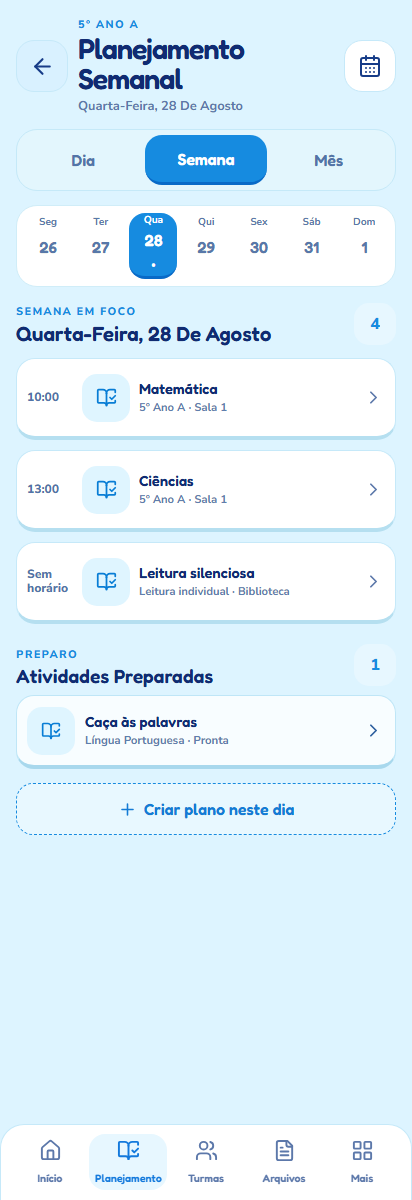
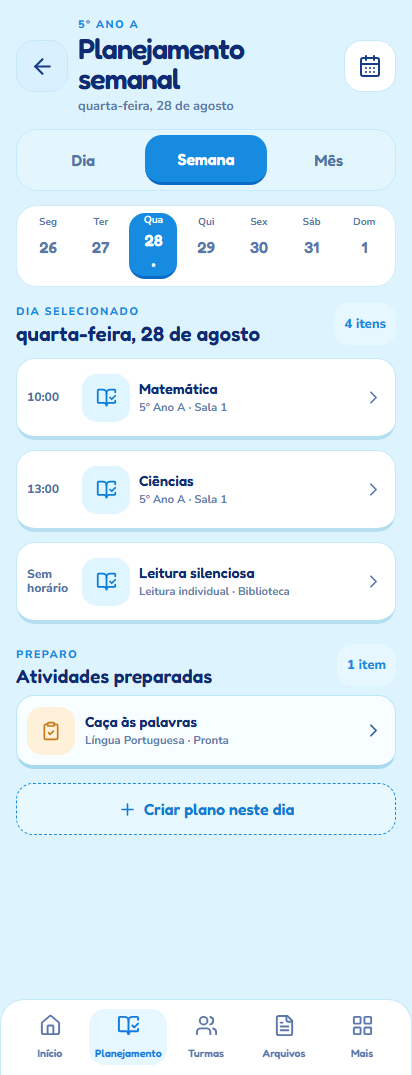
fix(planning-week): clarify selected-day hierarchy

diff --git a/src/v2/screens/planning-calendar-v2.css b/src/v2/screens/planning-calendar-v2.css
@@ -4,19 +4,20 @@
 .v2-planning-calendar__back, .v2-planning-calendar__calendar, .v2-planning-calendar__date-arrow { display: grid; place-items: center; width: 52px; height: 52px; border: 1px solid #c6e9f9; border-radius: 18px; background: #d9f1ff; color: #173c88; }
 .v2-planning-calendar__calendar { background: #fff; }
 .v2-planning-calendar h1, .v2-planning-calendar h2, .v2-planning-calendar strong, .v2-planning-calendar button { font-family: "Fredoka", ui-rounded, "Nunito Sans", system-ui, sans-serif; }
-.v2-planning-calendar h1 { margin: 3px 0 0; color: #102b72; font-size: clamp(1.55rem, 7vw, 2.1rem); line-height: 1.04; letter-spacing: -.04em; text-transform: capitalize; }
-.v2-planning-calendar__header p { margin: 5px 0 0; color: #5c78aa; font: 600 .8rem/1.2 var(--v2-font-family); text-transform: capitalize; }
+.v2-planning-calendar h1 { margin: 3px 0 0; color: #102b72; font-size: clamp(1.55rem, 7vw, 2.1rem); line-height: 1.04; letter-spacing: -.04em; }
+.v2-planning-calendar__header p { margin: 5px 0 0; color: #5c78aa; font: 600 .8rem/1.2 var(--v2-font-family); }
 .v2-planning-calendar__notice { display: flex; min-height: 48px; align-items: center; justify-content: space-between; gap: 10px; margin-bottom: 12px; padding: 9px 12px; border: 1px solid #bfe7f7; border-radius: 16px; background: #e7f8ff; color: #315d95; font: 700 .76rem/1.25 var(--v2-font-family); }
 .v2-planning-calendar__notice.is-error { border-color: #f4c0c8; background: #fff0f2; color: #af3046; }.v2-planning-calendar__notice button { min-height: 48px; border: 0; background: transparent; color: inherit; font-weight: 800; text-decoration: underline; }
 .v2-planning-calendar__tabs { display: grid; grid-template-columns: repeat(3, 1fr); min-height: 62px; margin-bottom: 14px; padding: 5px; border: 1px solid #c5e9f8; border-radius: 21px; background: #e3f6fd; }.v2-planning-calendar__tabs button { min-height: 50px; border: 0; border-radius: 17px; background: transparent; color: #5274a8; font-size: 1rem; }.v2-planning-calendar__tabs button.is-selected { border-bottom: 3px solid #096ac7; background: #168be0; color: #fff; }
 .v2-planning-calendar__week-strip { display: grid; grid-template-columns: repeat(7, minmax(0, 1fr)); gap: 5px; margin-bottom: 16px; padding: 7px; border: 1px solid #d0edf8; border-radius: 21px; background: #fff; }.v2-planning-calendar__week-day { display: grid; min-height: 66px; place-items: center; gap: 3px; border: 0; border-radius: 16px; background: transparent; color: #5878a9; }.v2-planning-calendar__week-day span { font: 700 .63rem/1 var(--v2-font-family); text-transform: capitalize; }.v2-planning-calendar__week-day small { min-height: 9px; color: #168be0; }.v2-planning-calendar__week-day.is-selected { border-bottom: 3px solid #096ac7; background: #168be0; color: #fff; }.v2-planning-calendar__week-day.is-selected small { color: #fff; }
-.v2-planning-calendar__month { margin-bottom: 16px; padding: 13px 10px 16px; border: 1px solid #c6e9f9; border-radius: 24px; background: #fff; }.v2-planning-calendar__month-nav { display: grid; grid-template-columns: 48px minmax(0, 1fr) 48px; align-items: center; gap: 10px; margin-bottom: 10px; text-align: center; }.v2-planning-calendar__month-nav strong { color: #102b72; font-size: 1.08rem; text-transform: capitalize; }.v2-planning-calendar__date-arrow { width: 48px; height: 48px; }.v2-planning-calendar__weekdays, .v2-planning-calendar__grid { display: grid; grid-template-columns: repeat(7, minmax(0, 1fr)); gap: 3px; }.v2-planning-calendar__weekdays span { padding: 5px 0; color: #6682ad; font: 700 .66rem/1 var(--v2-font-family); text-align: center; }.v2-planning-calendar__cell { display: grid; min-height: 48px; place-items: center; gap: 3px; border: 0; border-radius: 15px; background: transparent; color: #173c88; }.v2-planning-calendar__cell.is-selected { background: #168be0; color: #fff; }.v2-planning-calendar__cell i { width: 5px; height: 5px; border-radius: 50%; background: #8dcdec; }.v2-planning-calendar__cell.is-selected i { background: #fff; }
-.v2-planning-calendar__day-heading { display: flex; align-items: flex-end; justify-content: space-between; gap: 10px; margin: 4px 0 13px; }.v2-planning-calendar h2 { margin: 5px 0 0; color: #102b72; font-size: clamp(1.1rem, 5vw, 1.4rem); line-height: 1.08; text-transform: capitalize; }.v2-planning-calendar__count { display: grid; min-width: 42px; min-height: 42px; place-items: center; border-radius: 15px; background: #e7f7ff; color: #168be0; font: 800 1rem/1 var(--v2-font-family); }.v2-planning-calendar__plans { display: grid; gap: 10px; }.v2-planning-calendar__plan { display: grid; grid-template-columns: 46px 48px minmax(0, 1fr) 22px; min-height: 82px; align-items: center; gap: 9px; padding: 10px; border: 1px solid #c6e9f9; border-bottom: 4px solid #b5dff0; border-radius: 19px; background: #fff; color: #5c78aa; text-align: left; }.v2-planning-calendar__plan time { color: #5274a8; font: 800 .75rem/1 var(--v2-font-family); }.v2-planning-calendar__plan-icon { display: grid; width: 48px; height: 48px; place-items: center; border-radius: 15px; background: #dff5ff; color: #087dd5; }.v2-planning-calendar__plan span:nth-child(3) { display: grid; min-width: 0; gap: 4px; }.v2-planning-calendar__plan strong { color: #102b72; font-size: .91rem; line-height: 1.12; overflow-wrap: normal; }.v2-planning-calendar__plan small { color: #5f7ead; font: 600 .7rem/1.25 var(--v2-font-family); overflow-wrap: normal; }.v2-planning-calendar__state { display: grid; min-height: 190px; place-items: center; gap: 8px; padding: 24px; border: 1px solid #c6e9f9; border-radius: 24px; background: #fff; color: #168be0; text-align: center; }.v2-planning-calendar__state strong { color: #102b72; font-size: 1.05rem; }.v2-planning-calendar__state p { max-width: 270px; margin: 0; color: #6983ad; font: 600 .8rem/1.35 var(--v2-font-family); }.v2-planning-calendar__add { display: flex; width: 100%; min-height: 52px; align-items: center; justify-content: center; gap: 7px; margin-top: 14px; border: 1px dashed #168be0; border-radius: 17px; background: #e8f8ff; color: #147bd5; font-weight: 800; }.v2-planning-calendar__bottom-nav { position: fixed; right: 0; bottom: 0; left: 0; z-index: 5; display: grid; grid-template-columns: repeat(5, minmax(0, 1fr)); width: min(100%, var(--v2-content-max)); margin: 0 auto; padding: 9px 10px max(10px, env(safe-area-inset-bottom)); border: 1px solid #c6e9f9; border-bottom: 0; border-radius: 24px 24px 0 0; background: rgb(255 255 255 / 98%); }.v2-planning-calendar__nav-item { display: grid; min-width: 48px; min-height: 56px; place-items: center; gap: 4px; border: 0; border-radius: 16px; background: transparent; color: #5c78aa; font-size: .67rem; font-weight: 700; line-height: 1; }.v2-planning-calendar__nav-item.is-selected { background: #e7f7ff; color: #1379dc; }.v2-planning-calendar__nav-item span { text-align: center; }
+.v2-planning-calendar__month { margin-bottom: 16px; padding: 13px 10px 16px; border: 1px solid #c6e9f9; border-radius: 24px; background: #fff; }.v2-planning-calendar__month-nav { display: grid; grid-template-columns: 48px minmax(0, 1fr) 48px; align-items: center; gap: 10px; margin-bottom: 10px; text-align: center; }.v2-planning-calendar__month-nav strong { color: #102b72; font-size: 1.08rem; }.v2-planning-calendar__date-arrow { width: 48px; height: 48px; }.v2-planning-calendar__weekdays, .v2-planning-calendar__grid { display: grid; grid-template-columns: repeat(7, minmax(0, 1fr)); gap: 3px; }.v2-planning-calendar__weekdays span { padding: 5px 0; color: #6682ad; font: 700 .66rem/1 var(--v2-font-family); text-align: center; }.v2-planning-calendar__cell { display: grid; min-height: 48px; place-items: center; gap: 3px; border: 0; border-radius: 15px; background: transparent; color: #173c88; }.v2-planning-calendar__cell.is-selected { background: #168be0; color: #fff; }.v2-planning-calendar__cell i { width: 5px; height: 5px; border-radius: 50%; background: #8dcdec; }.v2-planning-calendar__cell.is-selected i { background: #fff; }
+.v2-planning-calendar__day-heading { display: flex; align-items: flex-end; justify-content: space-between; gap: 10px; margin: 4px 0 13px; }.v2-planning-calendar h2 { margin: 5px 0 0; color: #102b72; font-size: clamp(1.1rem, 5vw, 1.4rem); line-height: 1.08; }.v2-planning-calendar__count { display: grid; min-width: 42px; min-height: 42px; padding: 0 10px; place-items: center; border-radius: 15px; background: #e7f7ff; color: #168be0; font: 800 .82rem/1 var(--v2-font-family); white-space: nowrap; }.v2-planning-calendar__plans { display: grid; gap: 10px; }.v2-planning-calendar__plan { display: grid; grid-template-columns: 46px 48px minmax(0, 1fr) 22px; min-height: 82px; align-items: center; gap: 9px; padding: 10px; border: 1px solid #c6e9f9; border-bottom: 4px solid #b5dff0; border-radius: 19px; background: #fff; color: #5c78aa; text-align: left; }.v2-planning-calendar__plan time { color: #5274a8; font: 800 .75rem/1 var(--v2-font-family); }.v2-planning-calendar__plan-icon { display: grid; width: 48px; height: 48px; place-items: center; border-radius: 15px; background: #dff5ff; color: #087dd5; }.v2-planning-calendar__plan span:nth-child(3) { display: grid; min-width: 0; gap: 4px; }.v2-planning-calendar__plan strong { color: #102b72; font-size: .91rem; line-height: 1.12; overflow-wrap: normal; }.v2-planning-calendar__plan small { color: #5f7ead; font: 600 .7rem/1.25 var(--v2-font-family); overflow-wrap: normal; }.v2-planning-calendar__state { display: grid; min-height: 190px; place-items: center; gap: 8px; padding: 24px; border: 1px solid #c6e9f9; border-radius: 24px; background: #fff; color: #168be0; text-align: center; }.v2-planning-calendar__state strong { color: #102b72; font-size: 1.05rem; }.v2-planning-calendar__state p { max-width: 270px; margin: 0; color: #6983ad; font: 600 .8rem/1.35 var(--v2-font-family); }.v2-planning-calendar__add { display: flex; width: 100%; min-height: 52px; align-items: center; justify-content: center; gap: 7px; margin-top: 14px; border: 1px dashed #168be0; border-radius: 17px; background: #e8f8ff; color: #147bd5; font-weight: 800; }.v2-planning-calendar__bottom-nav { position: fixed; right: 0; bottom: 0; left: 0; z-index: 5; display: grid; grid-template-columns: repeat(5, minmax(0, 1fr)); width: min(100%, var(--v2-content-max)); margin: 0 auto; padding: 9px 10px max(10px, env(safe-area-inset-bottom)); border: 1px solid #c6e9f9; border-bottom: 0; border-radius: 24px 24px 0 0; background: rgb(255 255 255 / 98%); }.v2-planning-calendar__nav-item { display: grid; min-width: 48px; min-height: 56px; place-items: center; gap: 4px; border: 0; border-radius: 16px; background: transparent; color: #5c78aa; font-size: .67rem; font-weight: 700; line-height: 1; }.v2-planning-calendar__nav-item.is-selected { background: #e7f7ff; color: #1379dc; }.v2-planning-calendar__nav-item span { text-align: center; }
 @media (max-width: 359px) { .v2-planning-calendar__screen { padding-inline: 12px; }.v2-planning-calendar__header { grid-template-columns: 48px minmax(0,1fr) 48px; gap: 6px; }.v2-planning-calendar__back, .v2-planning-calendar__calendar { width: 48px; height: 48px; }.v2-planning-calendar h1 { font-size: 1.45rem; }.v2-planning-calendar__week-day span { font-size: .58rem; }.v2-planning-calendar__plan { grid-template-columns: 38px 40px minmax(0,1fr) 18px; gap: 6px; padding: 8px; }.v2-planning-calendar__plan-icon { width: 40px; height: 40px; }.v2-planning-calendar__plan strong { font-size: .78rem; }.v2-planning-calendar__plan small { font-size: .62rem; }.v2-planning-calendar__nav-item { font-size: .68rem; } }
 .v2-planning-calendar__activities { display: grid; gap: 8px; margin-top: 20px; }
 .v2-planning-calendar__activities-heading { display: flex; align-items: end; justify-content: space-between; gap: 10px; margin-bottom: 1px; }
 .v2-planning-calendar__activities-heading h2 { font-size: 1.2rem; }
 .v2-planning-calendar__activity { display: grid; grid-template-columns: 48px minmax(0, 1fr) 22px; min-width: 0; min-height: 74px; align-items: center; gap: 10px; width: 100%; padding: 10px; border: 1px solid #bfe6f7; border-bottom: 4px solid #a8d8ed; border-radius: 18px; background: #f8fdff; color: #2d5f9e; text-align: left; }
+.v2-planning-calendar__activity-icon { display: grid; width: 48px; height: 48px; place-items: center; border-radius: 15px; background: #fff1d9; color: #c87918; }
 .v2-planning-calendar__activity > span:nth-child(2) { display: grid; min-width: 0; gap: 4px; }
 .v2-planning-calendar__activity strong { color: #102b72; font-size: .91rem; line-height: 1.12; }
 .v2-planning-calendar__activity small { color: #5f7ead; font: 600 .71rem/1.25 var(--v2-font-family); }

diff --git a/src/v2/screens/PlanningCalendarV2.tsx b/src/v2/screens/PlanningCalendarV2.tsx
@@ -1,4 +1,4 @@
-import { ArrowLeft, BookOpenCheck, CalendarDays, ChevronLeft, ChevronRight, FileText, House, LayoutGrid, Plus, Users } from 'lucide-react';
+import { ArrowLeft, BookOpenCheck, CalendarDays, ChevronLeft, ChevronRight, ClipboardCheck, FileText, House, LayoutGrid, Plus, Users } from 'lucide-react';
 import * as React from 'react';
 import type { LessonPlan } from '../../domain/models';
 import type { TeachingActivity } from '../../domain/activities';
@@ -15,6 +15,7 @@ const keyOf = (date: Date) => `${date.getFullYear()}-${pad(date.getMonth() + 1)}
 const dateOf = (key: string) => new Date(`${key}T12:00:00`);
 const labelOf = (key: string) => dateOf(key).toLocaleDateString('pt-BR', { weekday: 'long', day: 'numeric', month: 'long' });
 const monthLabel = (date: Date) => date.toLocaleDateString('pt-BR', { month: 'long', year: 'numeric' });
+const countLabel = (count: number) => `${count} ${count === 1 ? 'item' : 'itens'}`;
 
 export type PlanningCalendarRow = { plan: LessonPlan; title: string; time: string; detail: string };
 
@@ -57,9 +58,9 @@ export function PlanningCalendarV2({ className = 'Sua turma', mode, dateKey, pla
     {offline && <div className="v2-planning-calendar__notice" role="status">Você está offline. O planejamento local continua disponível.</div>}{error && <div className="v2-planning-calendar__notice is-error" role="alert"><span>{error}</span><button type="button" onClick={onRetry}>Tentar novamente</button></div>}{activityError && <div className="v2-planning-calendar__notice is-error" role="alert"><span>{activityError}</span><button type="button" onClick={onRetry}>Tentar novamente</button></div>}
     <div className="v2-planning-calendar__tabs" role="tablist" aria-label="Visão do planejamento"><button type="button" role="tab" aria-selected="false" onClick={() => onViewChange('day')}>Dia</button><button className={mode === 'week' ? 'is-selected' : ''} type="button" role="tab" aria-selected={mode === 'week'} onClick={() => onViewChange('week')}>Semana</button><button className={mode === 'month' ? 'is-selected' : ''} type="button" role="tab" aria-selected={mode === 'month'} onClick={() => onViewChange('month')}>Mês</button></div>
     {mode === 'week' ? <div className="v2-planning-calendar__week-strip">{week.map((key) => <button className={`v2-planning-calendar__week-day v2-pressable${key === dateKey ? ' is-selected' : ''}`} type="button" key={key} onClick={() => onDateChange(key)} aria-pressed={key === dateKey}><span>{dateOf(key).toLocaleDateString('pt-BR', { weekday: 'short' }).replace('.', '')}</span><strong>{dateOf(key).getDate()}</strong><small>{plans.some((plan) => plan.dataKey === key && !plan.arquivadoEm) || activities.some((activity) => activity.dataKey === key && activity.status !== 'arquivada') ? '•' : ''}</small></button>)}</div> : <div className="v2-planning-calendar__month"><div className="v2-planning-calendar__month-nav"><button className="v2-planning-calendar__date-arrow v2-pressable" type="button" onClick={() => moveMonth(-1)} aria-label="Mês anterior"><ChevronLeft size={22} /></button><strong>{monthLabel(month)}</strong><button className="v2-planning-calendar__date-arrow v2-pressable" type="button" onClick={() => moveMonth(1)} aria-label="Próximo mês"><ChevronRight size={22} /></button></div><div className="v2-planning-calendar__weekdays">{['Dom', 'Seg', 'Ter', 'Qua', 'Qui', 'Sex', 'Sáb'].map((day) => <span key={day}>{day}</span>)}</div><div className="v2-planning-calendar__grid">{monthDays.map((key, index) => key ? <button type="button" className={`v2-planning-calendar__cell v2-pressable${key === dateKey ? ' is-selected' : ''}`} key={key} onClick={() => onDateChange(key)} aria-label={labelOf(key)} aria-pressed={key === dateKey}><strong>{dateOf(key).getDate()}</strong>{(plans.some((plan) => plan.dataKey === key && !plan.arquivadoEm) || activities.some((activity) => activity.dataKey === key && activity.status !== 'arquivada')) && <i />}</button> : <span key={`blank-${index}`} />)}</div></div>}
-    <div className="v2-planning-calendar__day-heading"><div><span className="v2-eyebrow">{mode === 'week' ? 'SEMANA EM FOCO' : 'DIA SELECIONADO'}</span><h2>{labelOf(dateKey)}</h2></div><span className="v2-planning-calendar__count">{dayPlans.length + dayActivities.length}</span></div>
+    <div className="v2-planning-calendar__day-heading"><div><span className="v2-eyebrow">DIA SELECIONADO</span><h2>{labelOf(dateKey)}</h2></div><span className="v2-planning-calendar__count">{countLabel(dayPlans.length + dayActivities.length)}</span></div>
     {loading ? <div className="v2-planning-calendar__state" role="status">Carregando planejamento...</div> : dayPlans.length ? <section className="v2-planning-calendar__plans" aria-label="Planos do dia">{dayPlans.map((item) => <button className="v2-planning-calendar__plan v2-pressable" type="button" key={`${item.plan.id}-${item.title}`} onClick={() => onOpenPlan(item.plan)}><time>{mode === 'week' ? (item.time || 'Sem horário') : (item.time || '—')}</time><span className="v2-planning-calendar__plan-icon"><BookOpenCheck size={21} /></span><span><strong>{item.title}</strong><small>{item.detail || item.plan.tituloTema || 'Plano de aula'}</small></span><ChevronRight size={21} /></button>)}</section> : <div className="v2-planning-calendar__state"><CalendarDays size={32} /><strong>Dia livre para planejar</strong><p>Escolha este momento para preparar uma aula com calma.</p></div>}
-    {dayActivities.length > 0 && <section className="v2-planning-calendar__activities" aria-labelledby="planning-calendar-activities-title"><div className="v2-planning-calendar__activities-heading"><div><span className="v2-eyebrow">PREPARO</span><h2 id="planning-calendar-activities-title">Atividades preparadas</h2></div><span className="v2-planning-calendar__count">{dayActivities.length}</span></div>{dayActivities.map((activity) => <button className="v2-planning-calendar__activity v2-pressable" type="button" key={activity.id} onClick={() => onOpenActivity(activity)}><span className="v2-planning-calendar__plan-icon"><BookOpenCheck size={20} /></span><span><strong>{activity.titulo}</strong><small>{activity.disciplina || 'Atividade pedagógica'} · {activity.status === 'pronta' ? 'Pronta' : 'Rascunho'}</small></span><ChevronRight size={21} /></button>)}</section>}
+    {dayActivities.length > 0 && <section className="v2-planning-calendar__activities" aria-labelledby="planning-calendar-activities-title"><div className="v2-planning-calendar__activities-heading"><div><span className="v2-eyebrow">PREPARO</span><h2 id="planning-calendar-activities-title">Atividades preparadas</h2></div><span className="v2-planning-calendar__count">{countLabel(dayActivities.length)}</span></div>{dayActivities.map((activity) => <button className="v2-planning-calendar__activity v2-pressable" type="button" key={activity.id} onClick={() => onOpenActivity(activity)}><span className="v2-planning-calendar__activity-icon"><ClipboardCheck size={20} /></span><span><strong>{activity.titulo}</strong><small>{activity.disciplina || 'Atividade pedagógica'} · {activity.status === 'pronta' ? 'Pronta' : 'Rascunho'}</small></span><ChevronRight size={21} /></button>)}</section>}
     <button className="v2-planning-calendar__add v2-pressable" type="button" onClick={onCreatePlan}><Plus size={19} /> Criar plano neste dia</button>
     <nav className="v2-planning-calendar__bottom-nav" aria-label="Navegação principal">{navItems.map(({ id, label, icon: Icon }) => <button key={id} type="button" className={`v2-planning-calendar__nav-item v2-pressable${id === 'planejamento' ? ' is-selected' : ''}`} aria-current={id === 'planejamento' ? 'page' : undefined} onClick={() => onTabChange(id)}><Icon size={23} /><span>{label}</span></button>)}</nav>
   </div></main>;

diff --git a/e2e/v2-planning-week-flow.pw.ts b/e2e/v2-planning-week-flow.pw.ts
@@ -12,6 +12,8 @@ test('Planejamento semanal V2 mantém preparo, planos e estados úteis', async (
   await expect(device.getByRole('button', { name: /Ciências/ })).toBeVisible();
   await expect(device.getByText('Leitura silenciosa', { exact: true })).toBeVisible();
   await expect(device.getByText('Sem horário', { exact: true })).toBeVisible();
+  await expect(device.getByText('DIA SELECIONADO', { exact: true })).toBeVisible();
+  await expect(device.getByText('4 itens', { exact: true })).toBeVisible();
   await expect(device.getByRole('heading', { name: 'Atividades preparadas', exact: true })).toBeVisible();
   await expect(device.getByRole('button', { name: /Caça às palavras/ })).toBeVisible();
   await expect(device.getByRole('button', { name: 'Criar plano neste dia' })).toBeVisible();
